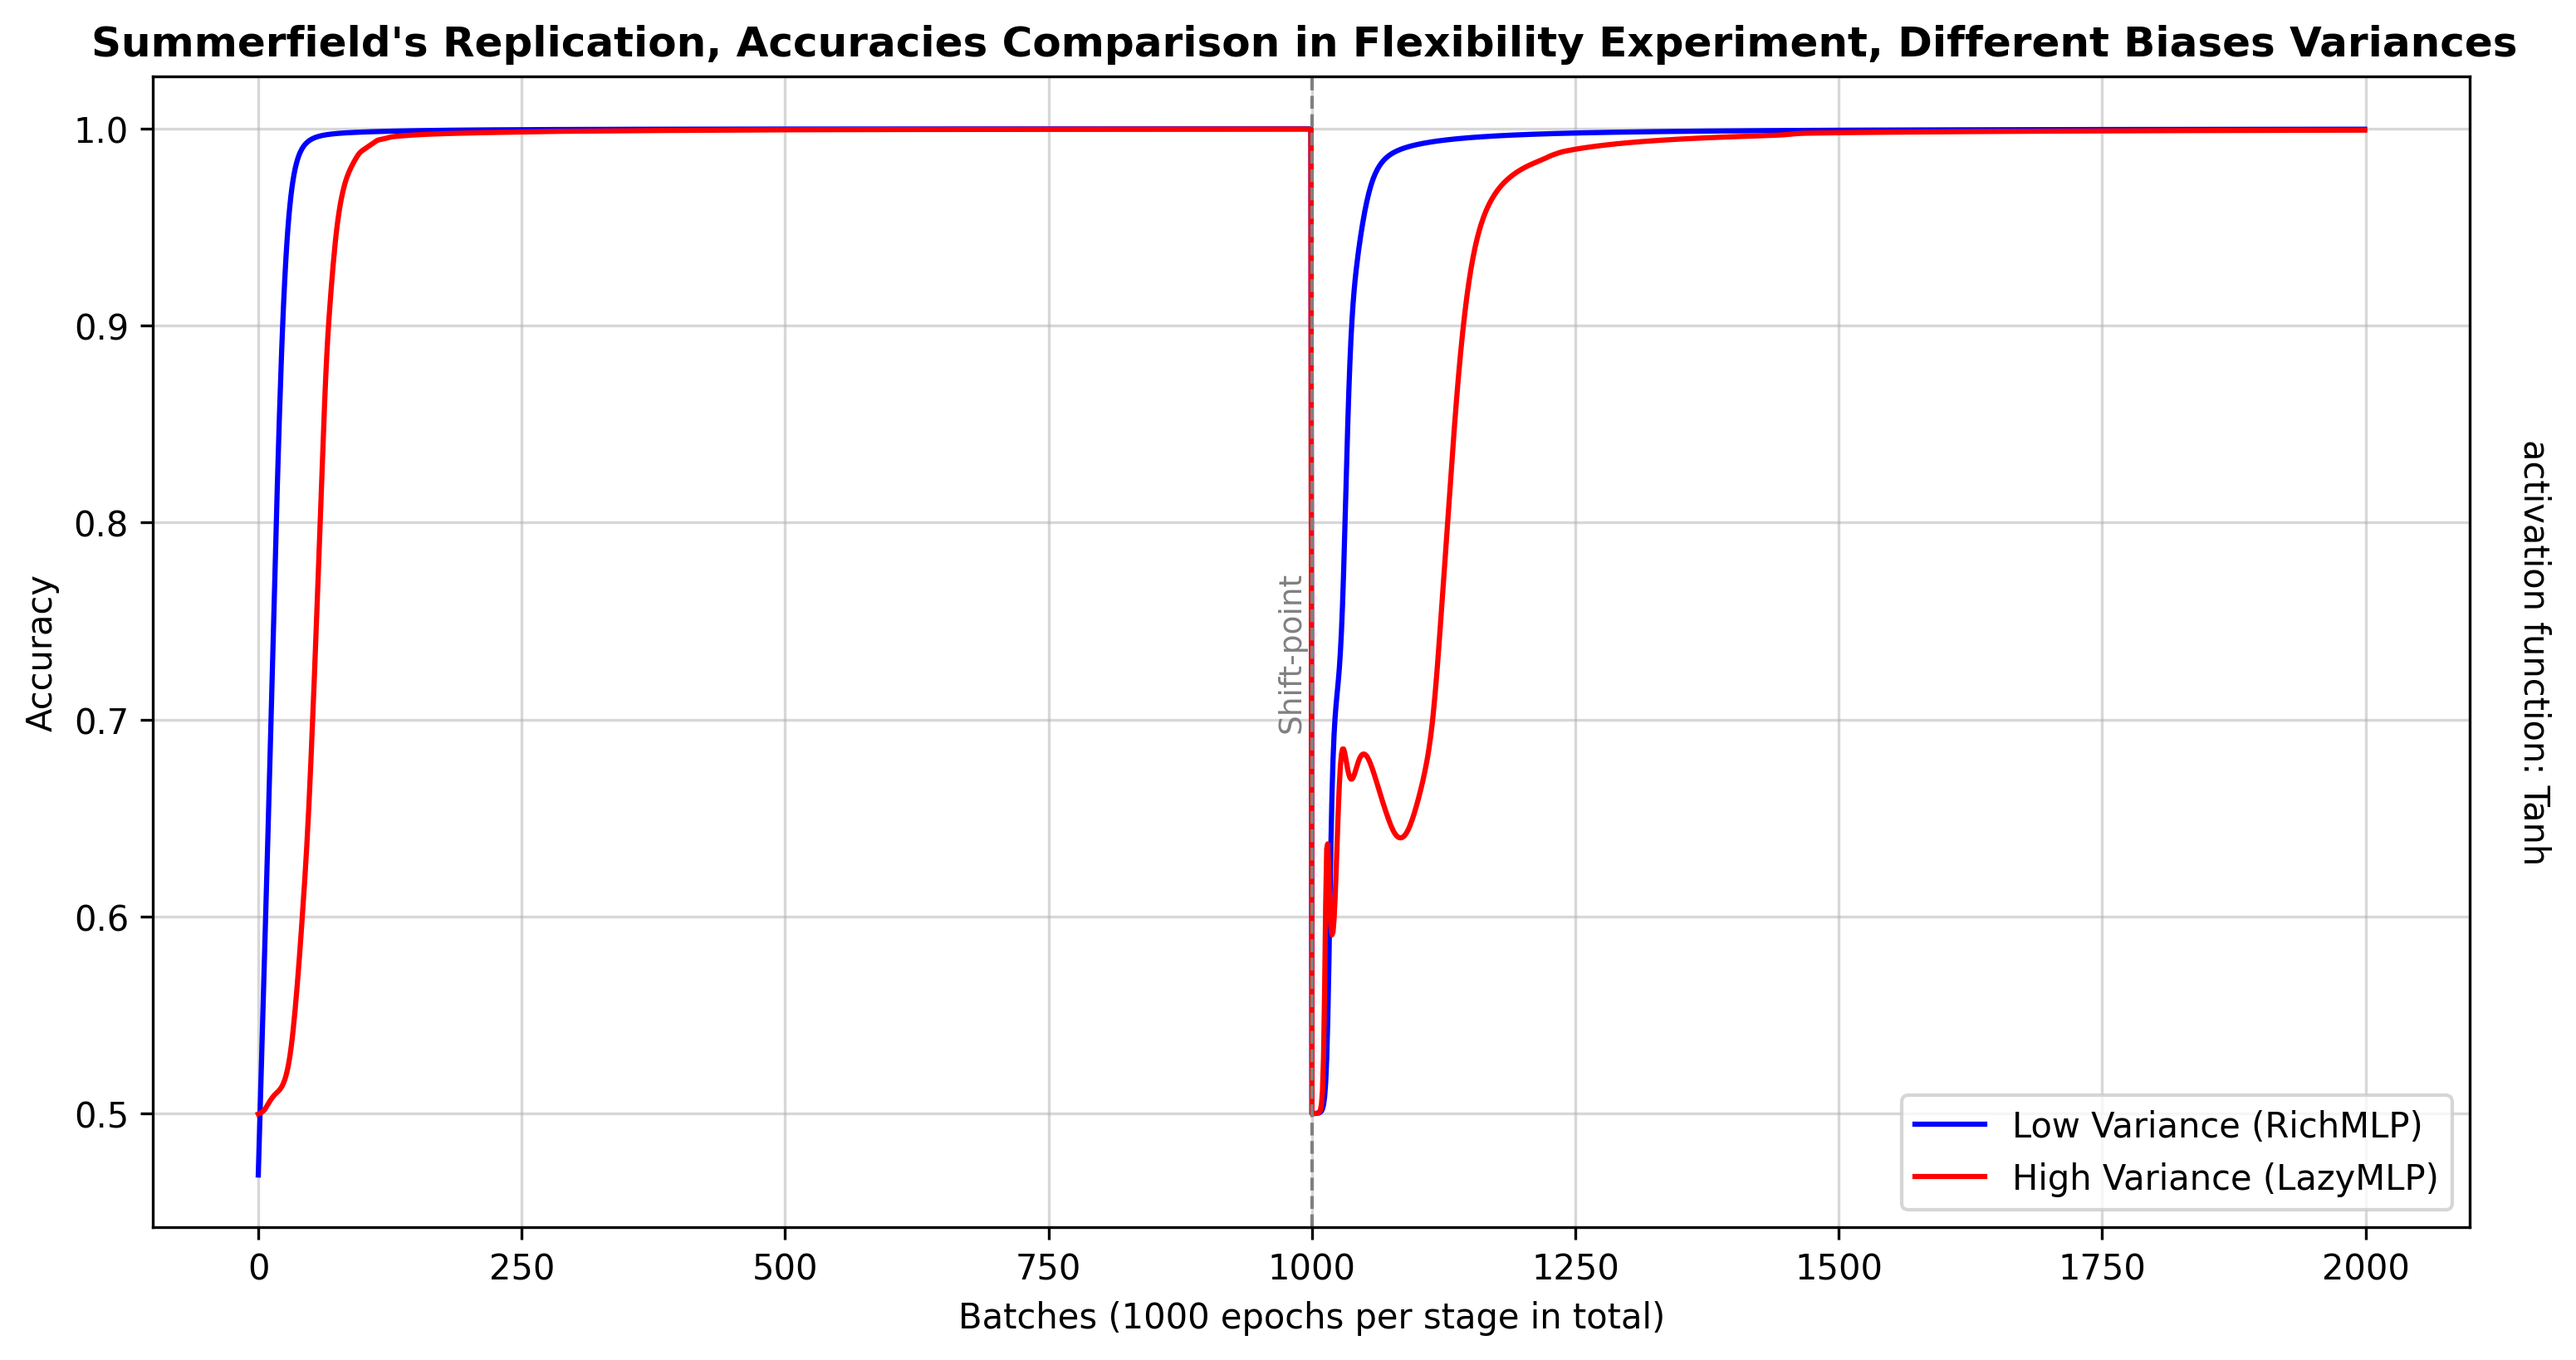
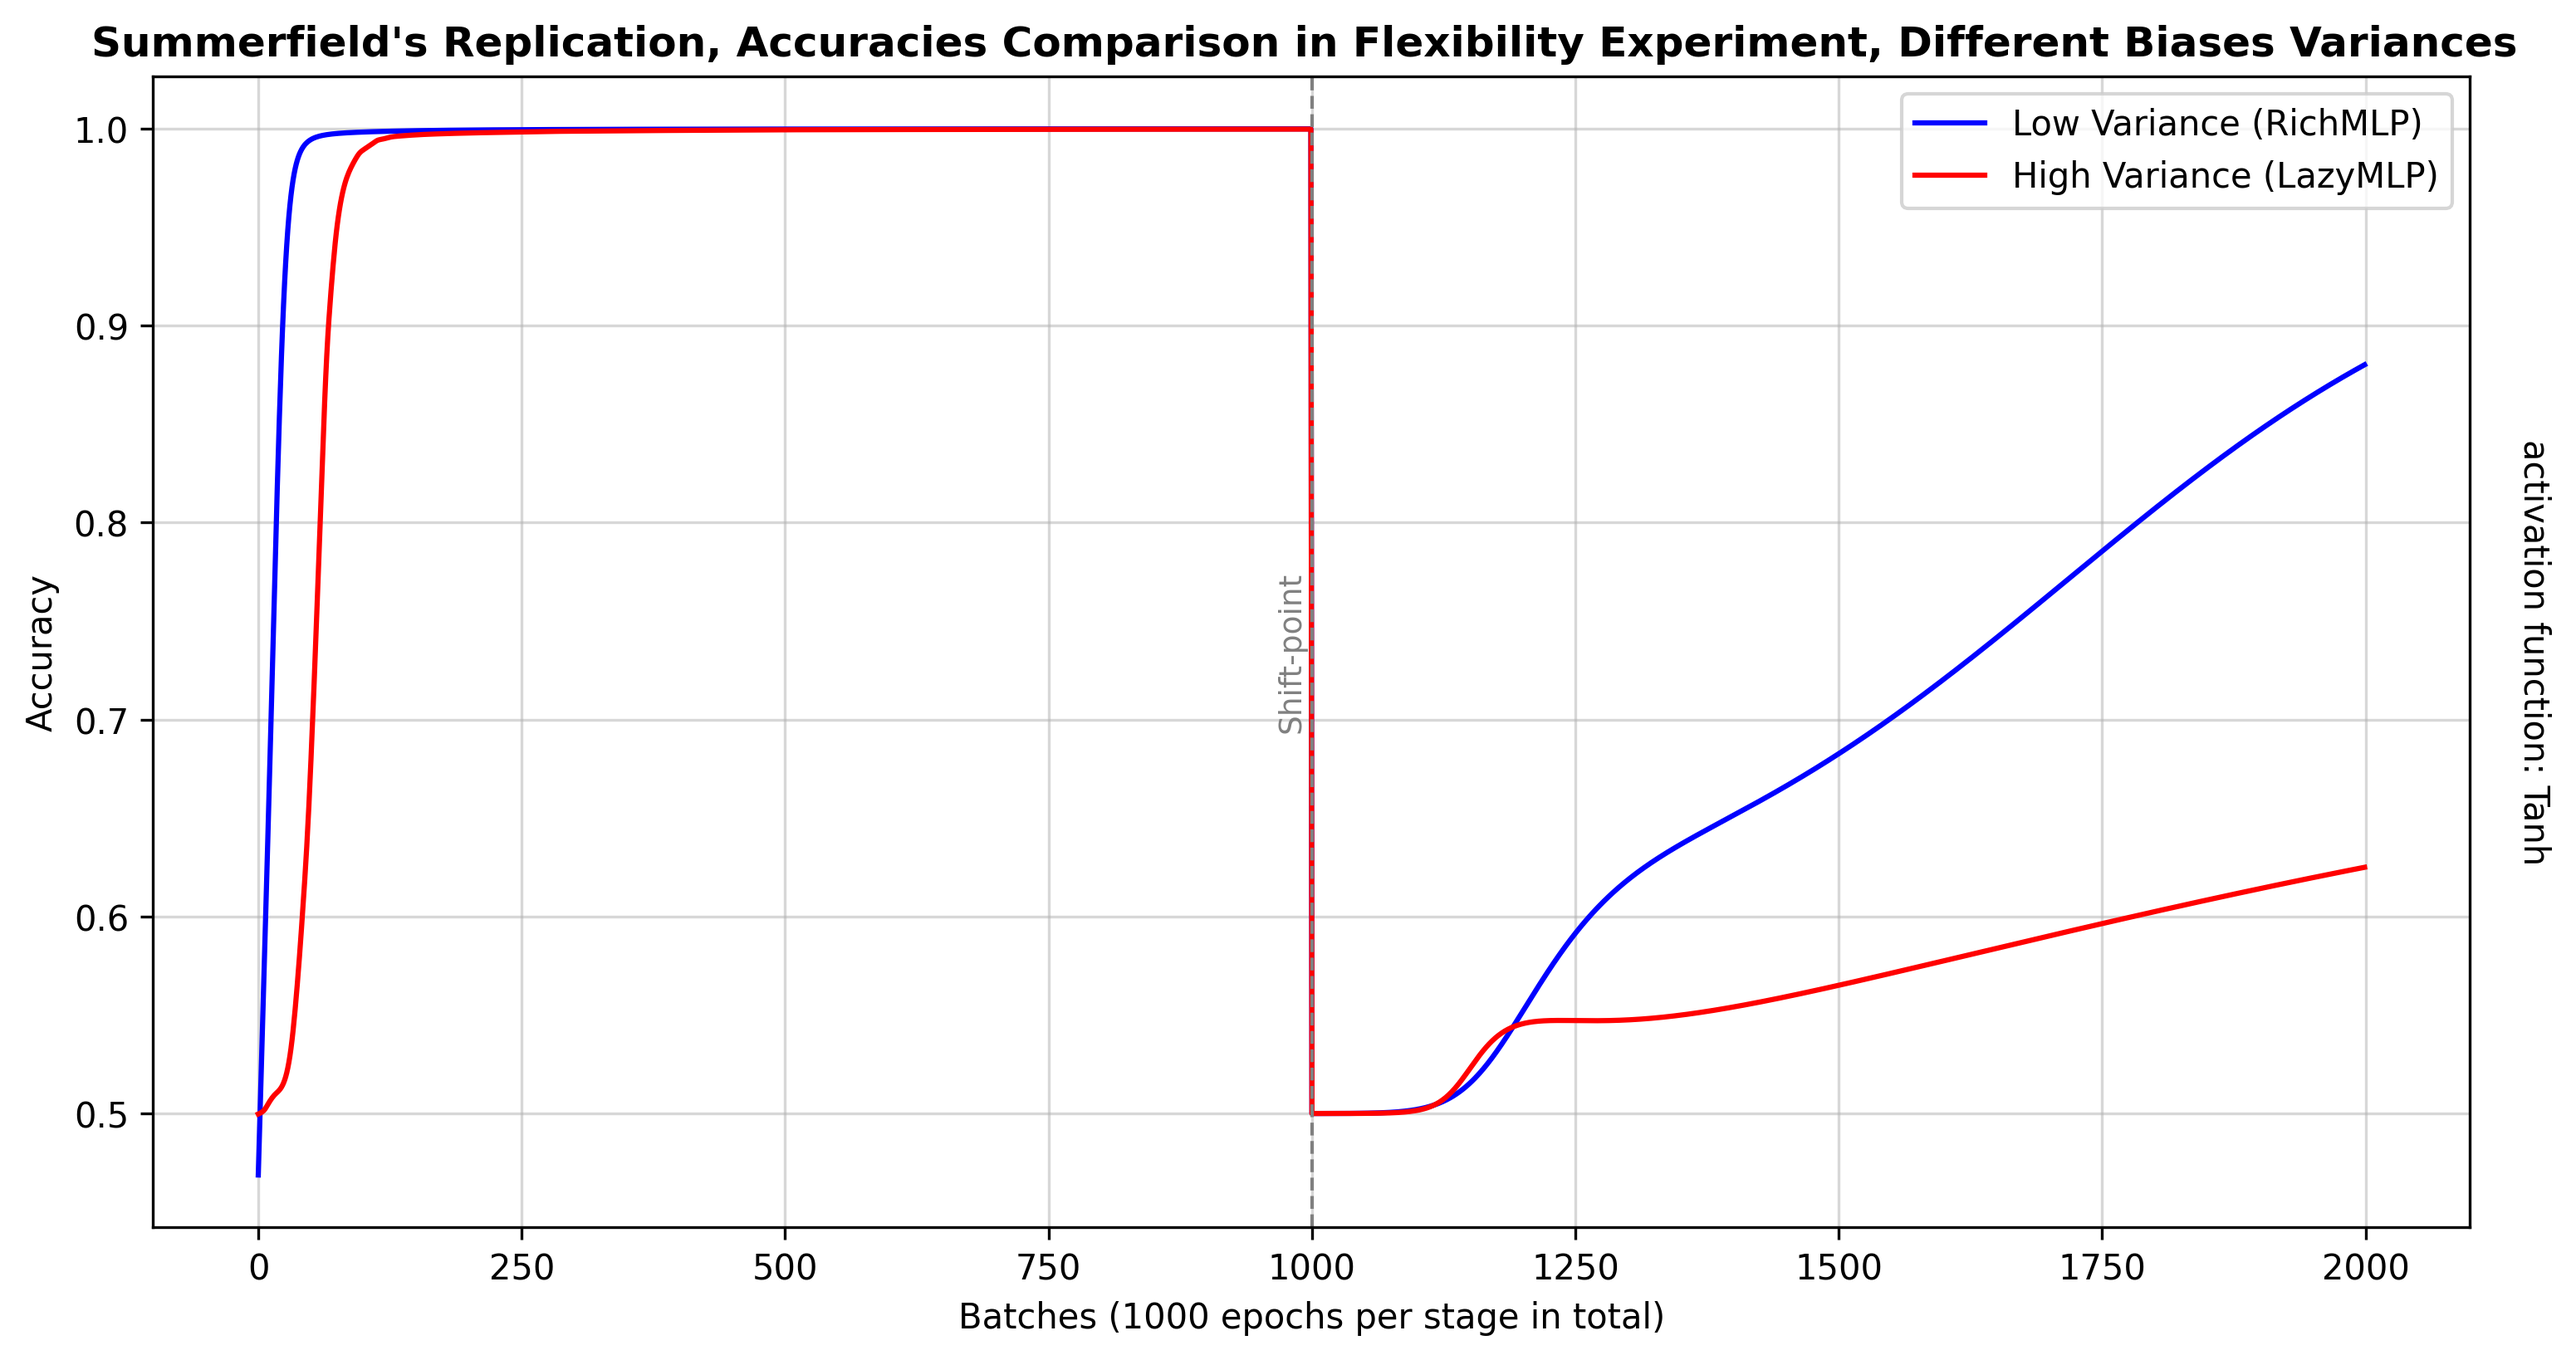
הסבר של ההבדלים בין הcommit מה16.3 לבין התוצאות בעדכון האחרון. היו בcommit לפני 3 בעיות מרכזיות: 1. באימון של השלב השני הוכחלף באופומיזטור לSGD במקום ADAM. 2. אחרי האימון של הגמישות, זה שינה את המודלים, ואז באימון ההכללה לקחנו בעצם את המודלים ששונו באימון הגמישות. 3. ההשמה של הכותרת לגרפים הייתה לא 
בcommit הנוכחי של ה16.3 תוקנו 3 הבעיות הנ"ל, והתאמה מאוד השתנו הגרפים.

diff --git a/simulations.py b/simulations.py
@@ -34,11 +34,8 @@ FIGURES_CONFIG = ["accuracy_graph"]
 def run_stage(stage, config, models=(0, 0)):
     config = copy.deepcopy(config)
     config = added_config(stage, config)
-    print(config)
 
     X, y, dataloader = create_dataset(**config)
-    print(X)
-    print(y)
 
     # Training
     model_low, data_low = train_mlp_model(models[0], X, y, dataloader, w_scale=config["w_scale_low"],
@@ -80,8 +77,35 @@ def create_figures(results, config, figures_config, save=True):
 
 
 if __name__ == '__main__':
-    # RESULTS = run_experiment(CONFIG1)
-    # create_figures(RESULTS, CONFIG1, FIGURES_CONFIG)
+    RESULTS = run_experiment(CONFIG1)
+    create_figures(RESULTS, CONFIG1, FIGURES_CONFIG)
 
-    RESULTS = run_experiment(CONFIG2)
-    create_figures(RESULTS, CONFIG2, FIGURES_CONFIG)
+    if __name__ == '__main__':
+        print("--- Running Spoiled Experiment ---")
+
+        # שלב 1: Initial (מייצר משקולות שמתמקדות בפיצ'ר 0 עם Adam)
+        exp1 = run_stage("initial", CONFIG1)
+
+        # שומרים רפרנס למודלים בזיכרון (כאן מתחיל הבאג!)
+        spoiled_models = (exp1["model_low"], exp1["model_high"])
+
+        # שלב 2: Flexibility
+        # מעבירים את המודלים - הפונקציה דורסת את המשקולות ומעבירה אותן לפיצ'ר 1!
+        # (ובגלל הבאג בקונפיגורציה, זה רץ עם SGD)
+        exp2 = run_stage("flexibility", exp1["config"], models=spoiled_models)
+
+        # שלב 3: Generalization
+        # אנחנו מעבירים שוב את אותם מודלים! הם עכשיו הרוסים ומכוונים לפיצ'ר 1.
+        # הרשת תנסה בקושי רב לחזור לפיצ'ר 0 עם הוספת רעש (שוב עם SGD).
+        exp3 = run_stage("generalization", exp2["config"], models=spoiled_models)
+
+        # עכשיו אנחנו "מרמים" את פונקציית הגרפים החדשה.
+        # נבקש ממנה לצייר את ה-Initial מחובר ישירות ל-Generalization
+        # (כדי שזה ייראה כמו הגרף הישן שחתך את ה-Flexibility החוצה מהתצוגה).
+        spoiled_results = {"initial": exp1, "generalization": exp3}
+        spoiled_results["initial"]["config"]["exp_stages"] = ["initial", "generalization"]
+
+        create_figures(spoiled_results, spoiled_results["initial"]["config"], FIGURES_CONFIG, save=False)
+    #
+    # RESULTS = run_experiment(CONFIG2)
+    # create_figures(RESULTS, CONFIG2, FIGURES_CONFIG)

diff --git a/utils.py b/utils.py
@@ -179,10 +179,11 @@ class Figures():  # continue working on it
 def added_config(stage, config):
     config["input_size"] = sum(config["features_types"]) + config["odd_dim"]
     config["device"] = torch.device("cuda" if torch.cuda.is_available() else "cpu")
-    if config["optimizer_type"] == "Adam":
-        config["optimizer_type"] = optim.Adam
-    if config["optimizer_type"] == "SGD":
-        config["optimizer_type"] = optim.SGD
+    config["optimizer_type"] = optim.Adam if config["optimizer_type"] == "Adam" else optim.SGD
+    # if config["optimizer_type"] == "Adam":
+    #     config["optimizer_type"] = optim.Adam
+    # if config["optimizer_type"] == "SGD":
+    #     config["optimizer_type"] = optim.SGD
     odd, deciding_feature = False, 0
     if stage == "flexibility":
         odd, deciding_feature = False, 1
